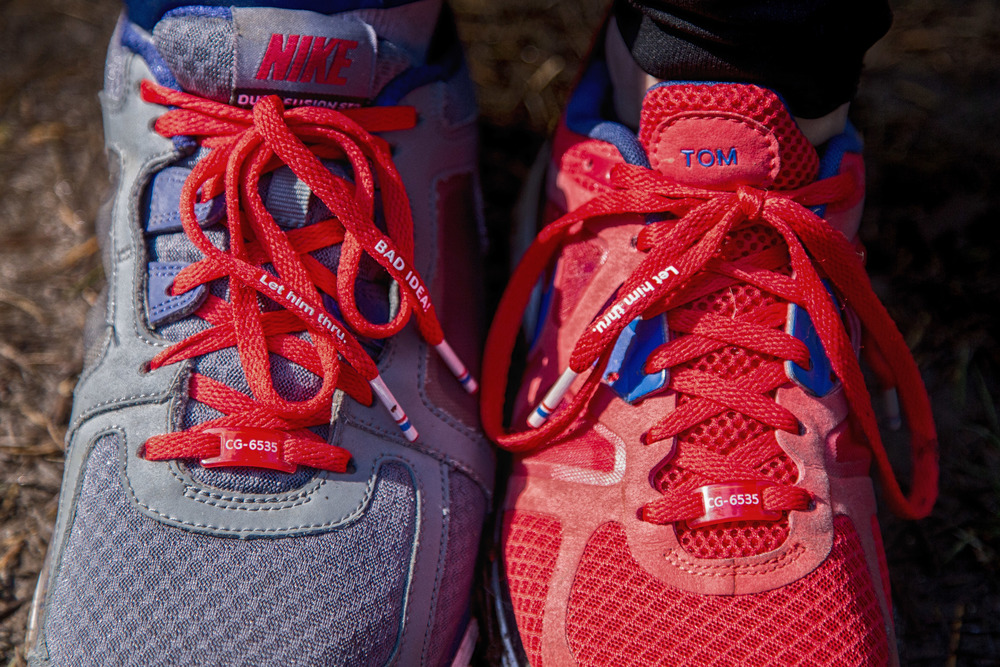
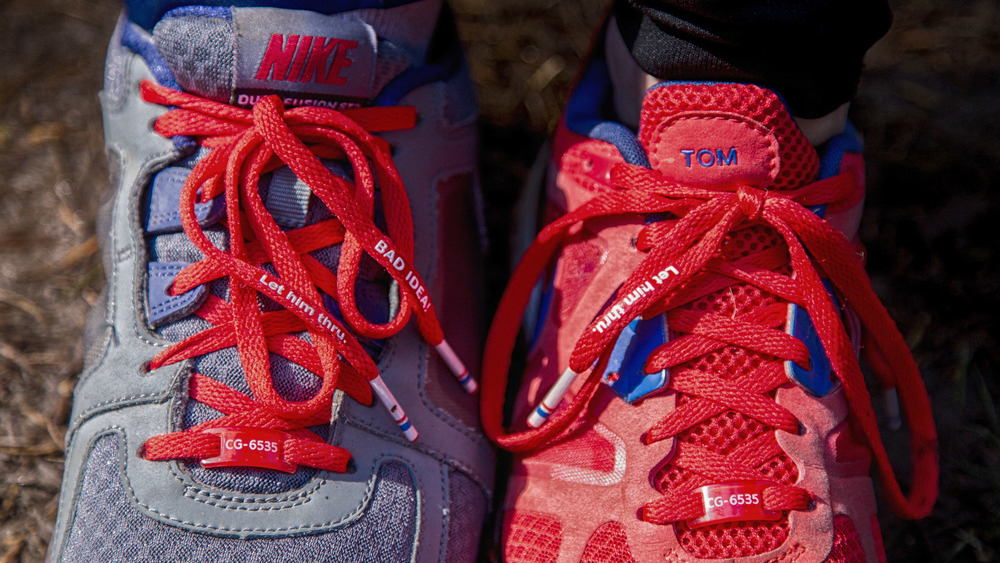
Add background for about section

diff --git a/index.html b/index.html
@@ -176,13 +176,26 @@
   <div id="map"></div>
 
   <!-- About Section -->
-  <section id="about" class="container content-section text-center">
-    <div class="row">
+  <section id="about" class="content-section text-center">
+    <div class="about-section">
+      <div class="container">
       <div class="col-lg-8 col-lg-offset-2">
-        <h2>History of Tabor Challenge</h2>
+        <a href="#"><h2>History of Tabor Challenge</h2></a>
       </div>
     </div>
+  </div>
   </section>
+  <!-- <header id ="about">
+    <div class="intro-body">
+      <div class="container">
+        <div class="row">
+          <div class="col-md-8 col-md-offset-2">
+            <a href="#"><h2>History of Tabor Challenge</h2></a>
+          </div>
+        </div>
+      </div>
+    </div>
+  </header> -->
 
   <!-- Social Section -->
   <section id="social" class="container content-section text-center">

diff --git a/css/grayscale.css b/css/grayscale.css
@@ -273,6 +273,19 @@ a:focus {
     -o-background-size: cover;
 }
 
+.about-section {
+    width: 100%;
+    padding: 400px 0;
+    height: auto;
+    color: #fff;
+    background: url(../img/sneakers_original.jpg) no-repeat center center scroll;
+    background-color: #000;
+    -webkit-background-size: cover;
+    -moz-background-size: cover;
+    background-size: cover;
+    -o-background-size: cover;
+}
+
 #map {
     width: 100%;
     height: 200px;
@@ -281,7 +294,7 @@ a:focus {
 
 @media(min-width:767px) {
     .content-section {
-        padding-top: 250px;
+        padding-top: 0px;
     }
 
     .download-section {
